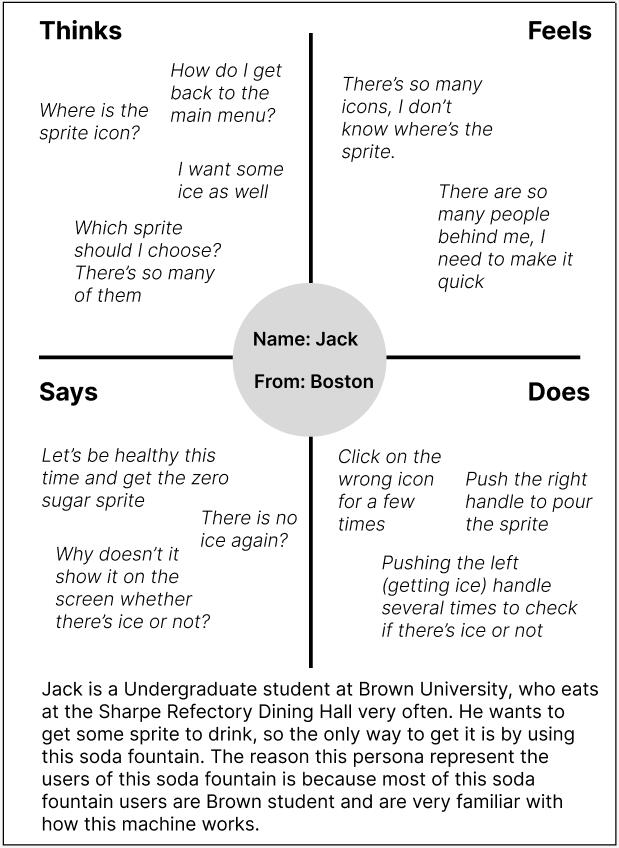
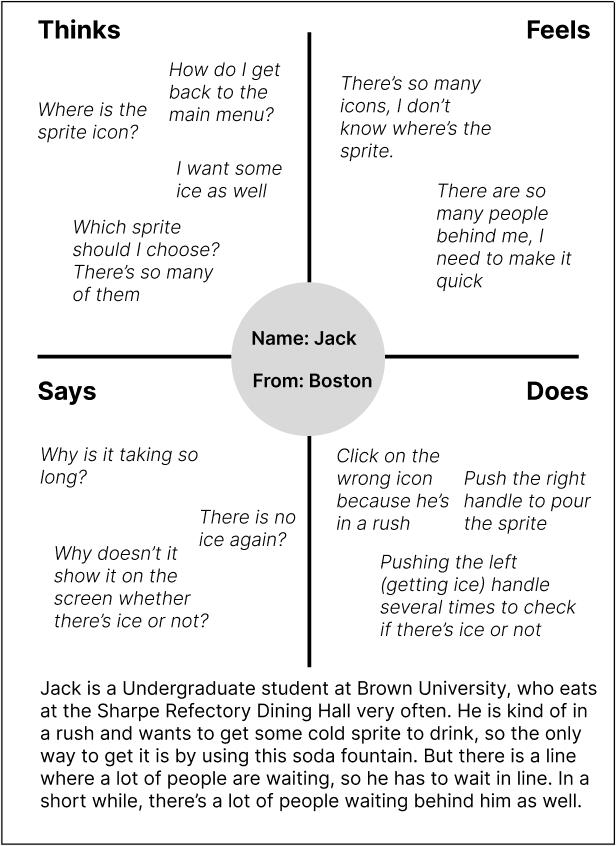
Add files via upload

diff --git a/index.html b/index.html
@@ -12,9 +12,9 @@
 	</head>
 
 
-	<body>
+	<body style="background-color:#c0cee9;">
 		<div class="header" id="myHeader">
-			<h2>Coca Cola Soda Fountain</h2>
+			<h2>UI/UX Study On Coca Cola Soda Fountain</h2>
 		</div>
 
 
@@ -35,8 +35,7 @@
 
 
 			<div class="image">
-				<img src="sketch.jpg" width="500px"/>
-				<img src="sketch2.jpg" width="500px"/>
+				<img src="sketch.jpg" width="1000px"/>
 			</div>
 
 
@@ -75,58 +74,58 @@
 
 
 			<div class="title">
-				<h2>Storyboard</h2>
+				<h2>Storyboard (Jack)</h2>
 			</div>
 			
 			<div class="image">
 				<div class="gallery">
-					<img src="storyboard1.jpg" width="320px" height="400px"/>
+					<img src="storyboard10.jpg" width="320px" height="400px"/>
 					<div class="desc">
-						A student from brown walk up to this soda fountain machine in Sharpe Refectory Dining Hall, and wants to get a cup of regular sprite.
+						There is a line in front of the soda fountain machine, he needs to wait in line in order to get some sprite.
+					</div>
+				</div>
+				<div class="gallery">
+					<img src="storyboard11.jpg" width="320px" height="400px"/>
+					<div class="desc">
+						Finally, it is his term, he takes a cup.
 					</div>
 				</div>
 				<div class="gallery">
 					<img src="storyboard2.jpg" width="320px" height="400px"/>
 					<div class="desc">
-						He gets a cup, and first want to get some ice before pouring drinks, so he push the left handle to get some ice.
+						He first wants to get some ice before pouring drinks, so he push the left handle to get some ice.
 					</div>
 				</div>
 				<div class="gallery">
 					<img src="storyboard3.jpg" width="320px" height="400px"/>
 					<div class="desc">
-						However, after waiting for a second, there's nothing coming out. Maybe the machine is temporary out of ice. But there are 
-						lots of people behind him waiting for him to finish, so he don't have time to wait for the ice.
+						However, after waiting for two seconds, there's nothing coming out. Maybe the machine is temporary out of ice. But there are 
+						lots of people behind him waiting for him to finish, so he doesn't have time to wait for the ice.
+					</div>
+				</div>
+				<div class="gallery">
+					<img src="storyboard9.jpg" width="320px" height="400px"/>
+					<div class="desc">
+						He then look at the screen, it is on the water page that the previous person leaves behind. So he taps on the back icon. 
 					</div>
 				</div>
 				<div class="gallery">
 					<img src="storyboard4.jpg" width="320px" height="400px"/>
 					<div class="desc">
-						He then look at the screen, looking for sprite icon, after finding it, he taps it. 
-					</div>
-				</div>
-				<div class="gallery">
-					<img src="storyboard5.jpg" width="320px" height="400px"/>
-					<div class="desc">
-						Then the interface changes, he does not know whether he need to tap the sprite again to choose it. In order to make sure the floating icon
-						means chosen, he taps at another one to see what happen.
+						Then the interface changes back to the main menu. He then taps on the sprite icon because he wants to drink some sprite.
 					</div>
 				</div>
 				<div class="gallery">
 					<img src="storyboard6.jpg" width="320px" height="400px"/>
 					<div class="desc">
-						The one he just taps jumps up, which means the one jumps up are the chosen one, so he taps the regular sprite icon.
+						The interface changes yet again into sprite page. He clicks the sprite icon again to make sure he selected the regular sprite.
 					</div>
 				</div>
 				<div class="gallery">
 					<img src="storyboard7.jpg" width="320px" height="400px"/>
 					<div class="desc">
-						He then pushes the right handle to pour the sprite.
-					</div>
-				</div>
-				<div class="gallery">
-					<img src="storyboard8.jpg" width="320px" height="400px"/>
-					<div class="desc">
-						Finaly, he finishes pouring the sprite, then he leaves happily.
+						He then pushes the right handle to pour the sprite. But because there's still lots of people waiting, there's 
+						no time for him to wait for the ice, so he has to drink normal sprite. Very sad.
 					</div>
 				</div>
 			</div>
